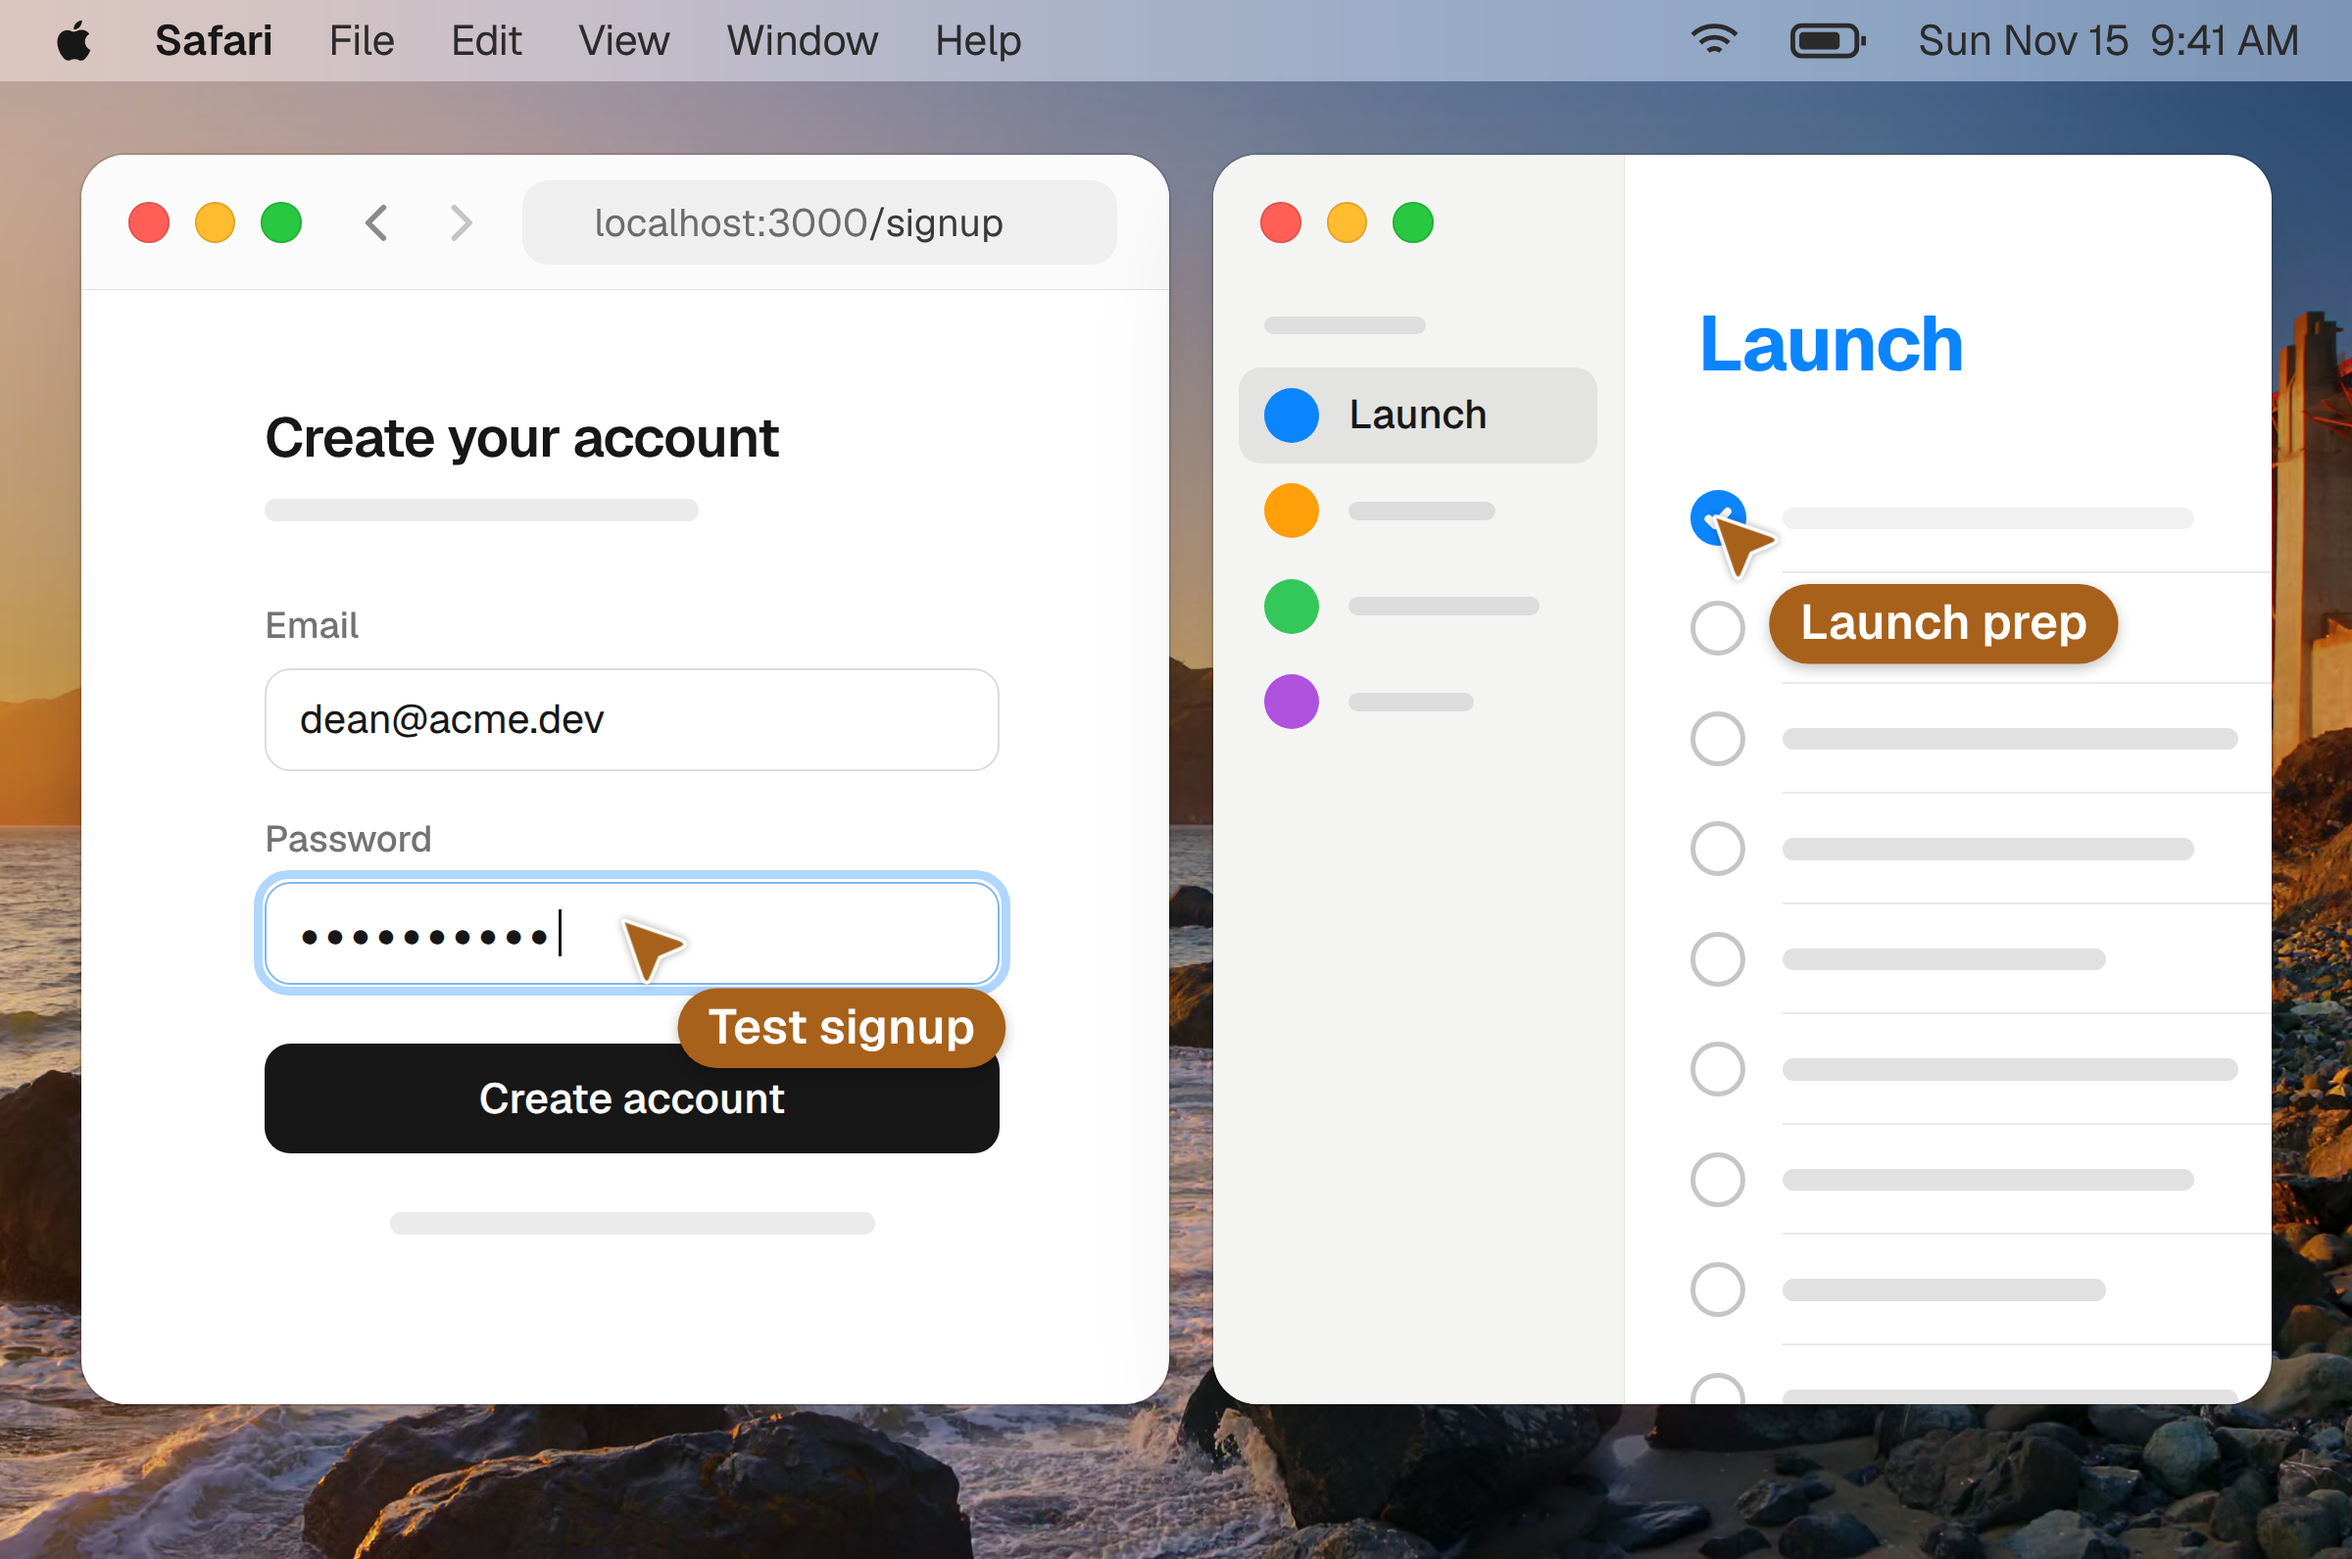
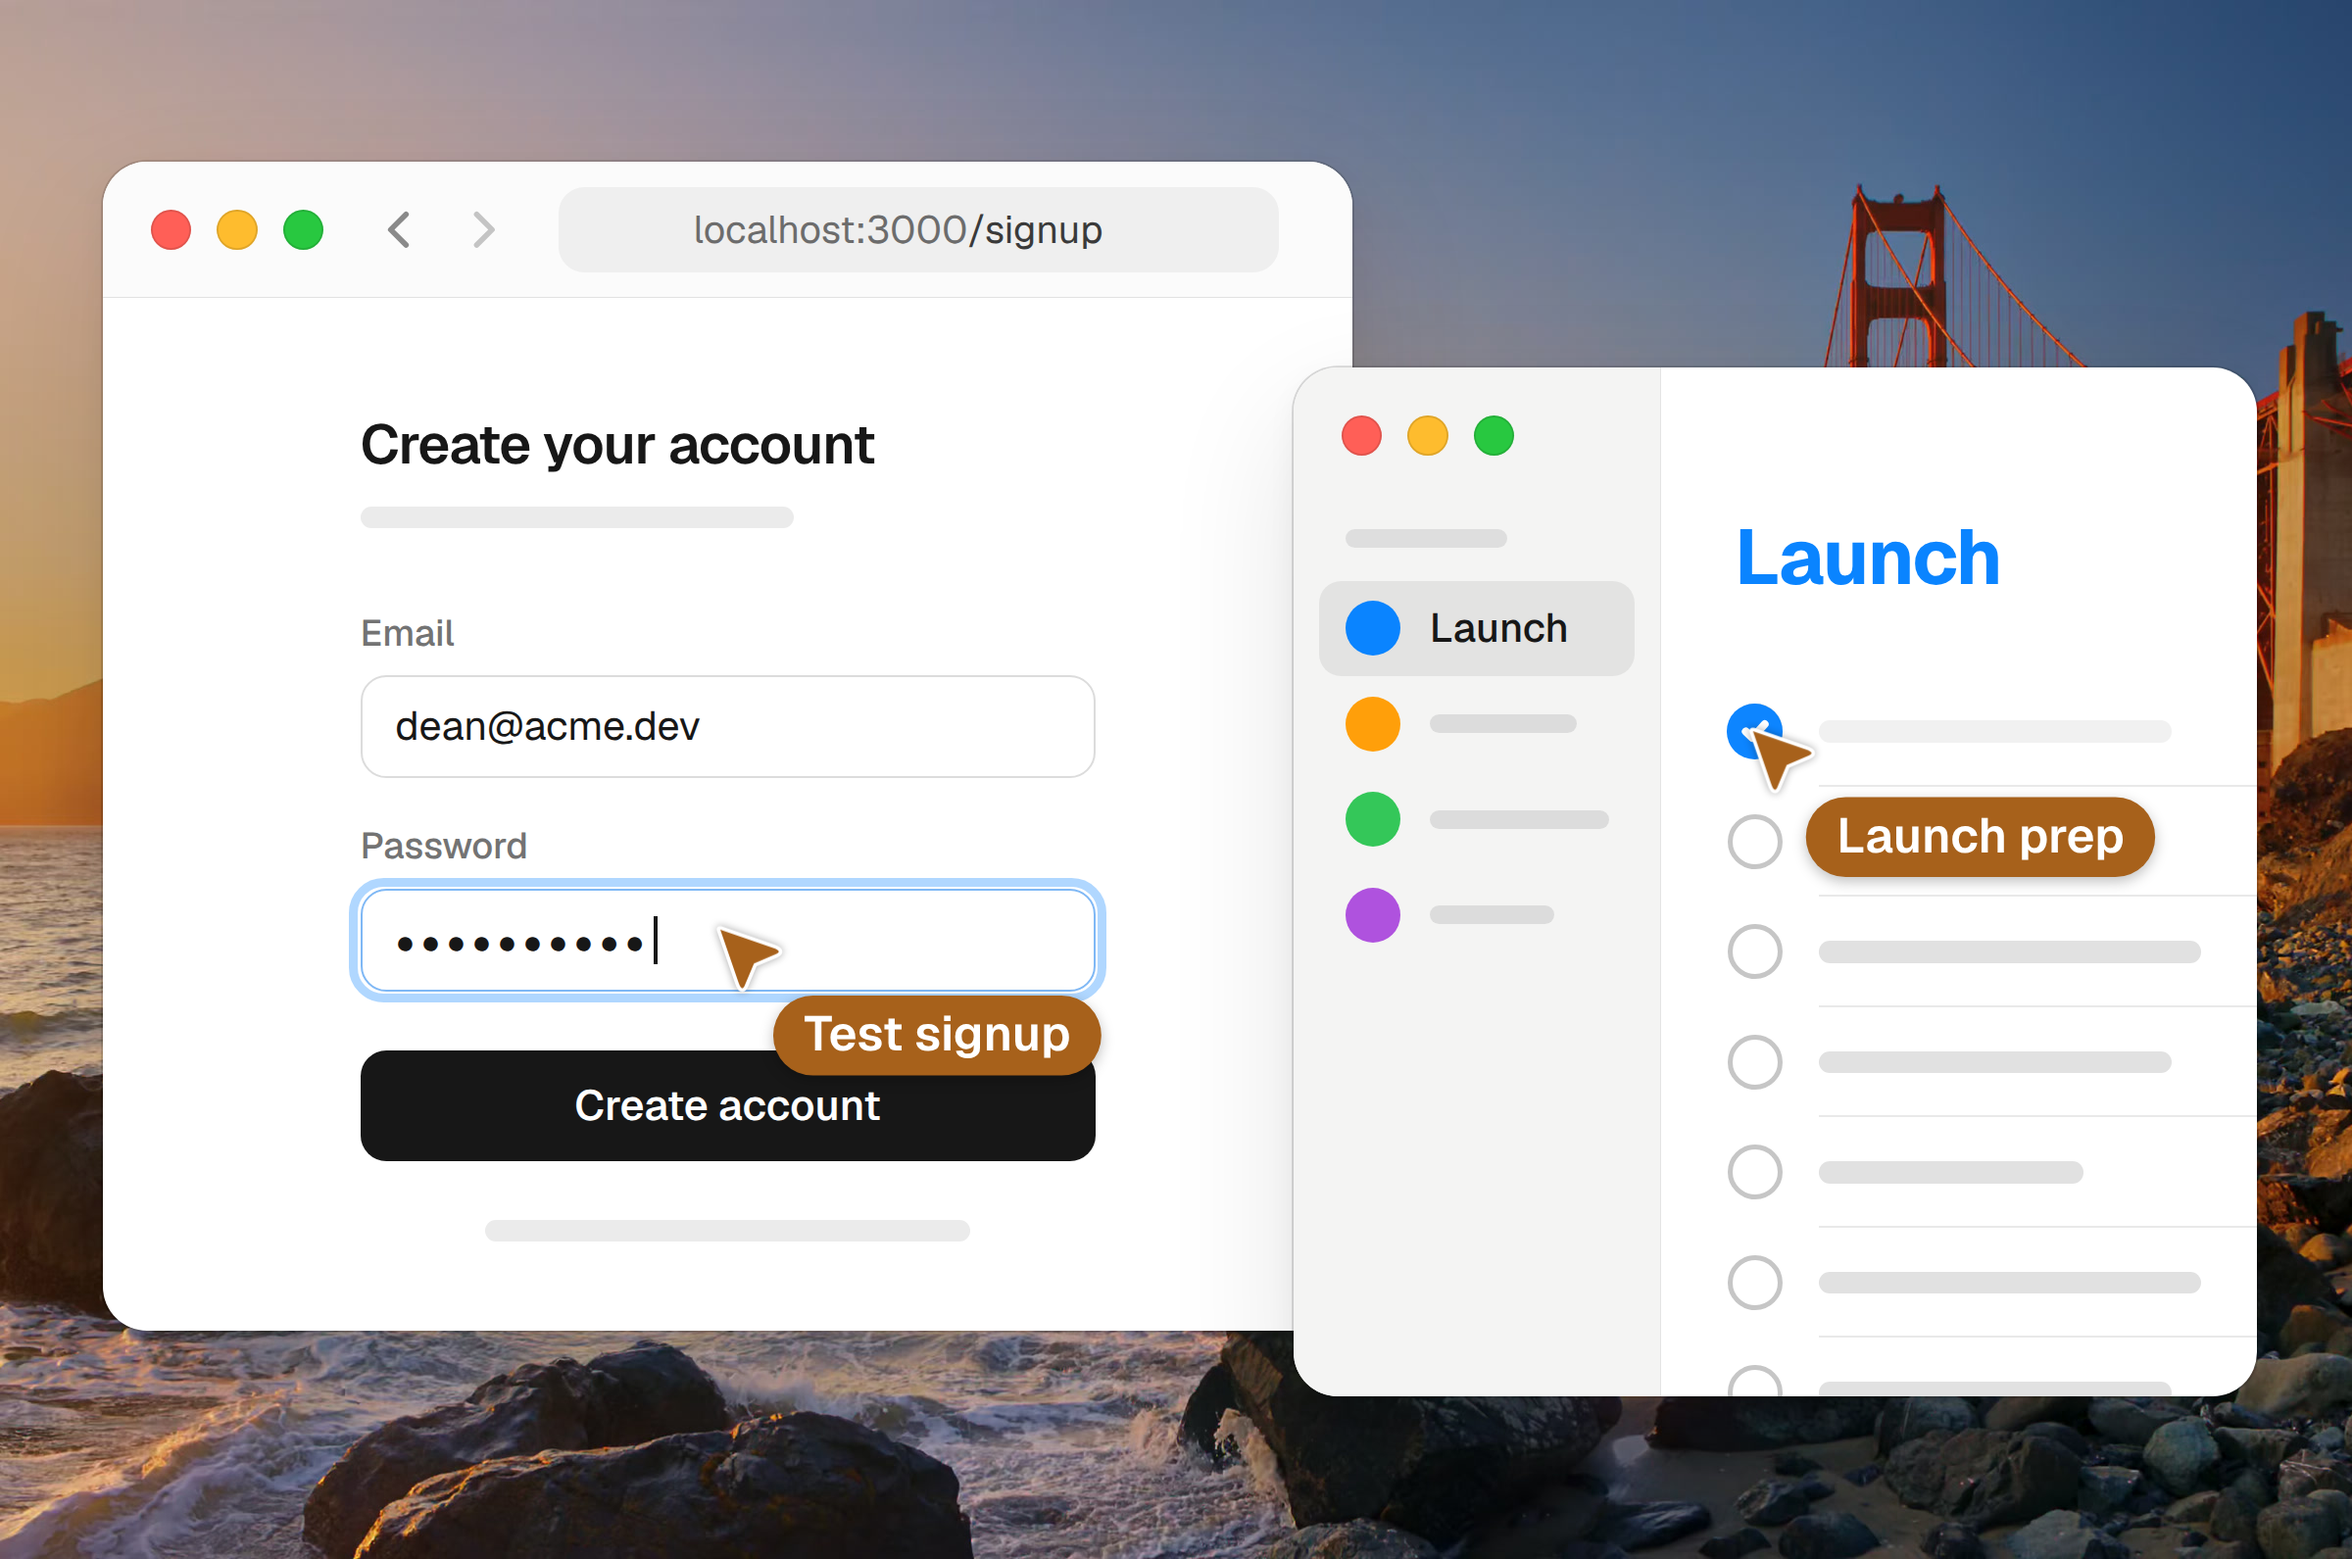
docs(changelog): drop the menu bar, give the windows their own sizes
At the developer's ask, 0.37.0's picture has no menu bar, and its two
windows no longer match: a wide Safari, and a smaller Reminders set lower,
over its edge, with the bridge showing beyond it.

diff --git a/.agents/skills/changelog-screenshots/staging/releases/v0.37.0-agent-cursors.html b/.agents/skills/changelog-screenshots/staging/releases/v0.37.0-agent-cursors.html
@@ -36,7 +36,7 @@
       #stage { position: absolute; left: 0; top: 0; width: 640px; height: 424.27px; zoom: 3.75; }
 
       /* Menu bar */
-      .menubar { position: absolute; left: 0; top: 0; width: 640px; height: 22px; display: flex;
+      .menubar { display: none !important; position: absolute; left: 0; top: 0; width: 640px; height: 22px; display: flex;
         align-items: center; padding: 0 14px; font-size: 11.5px; letter-spacing: -0.01em;
         background: rgba(255,255,255,.42); backdrop-filter: blur(20px) saturate(1.4); -webkit-backdrop-filter: blur(20px) saturate(1.4); }
       .menubar .apple { width: 12px; height: 14px; margin-right: 16px; fill: var(--ink); }
@@ -55,18 +55,18 @@
       .lights i:nth-child(3) { background: #28c840; }
 
       /* Browser */
-      #win-a { left: 22px; top: 42px; width: 296px; height: 340px; }
+      #win-a { left: 28px; top: 44px; width: 340px; height: 318px; }
       .toolbar { position: absolute; left: 0; top: 0; right: 0; height: 37px; border-bottom: 0.5px solid #e2e2e2; background: #fbfbfb; }
       .toolbar .nav { position: absolute; left: 74px; top: 12px; display: flex; gap: 10px; }
       .toolbar .nav svg { width: 13px; height: 13px; fill: none; stroke: #8a8a8a; stroke-width: 1.6; stroke-linecap: round; stroke-linejoin: round; }
       .toolbar .nav svg + svg { stroke: #c4c4c4; }
-      .address { position: absolute; left: 120px; top: 7px; width: 162px; height: 23px; border-radius: 7px;
+      .address { position: absolute; left: 124px; top: 7px; width: 196px; height: 23px; border-radius: 7px;
         background: #efefef; font-size: 10.5px; color: #3a3a3a; display: flex; align-items: center; justify-content: center; overflow: hidden; }
       .address .host { color: #6c6c6c; }
       .address .paths { position: relative; height: 13px; overflow: hidden; display: inline-block; }
       .address .paths span { display: block; line-height: 13px; }
       .page { position: absolute; left: 0; right: 0; top: 37px; bottom: 0; }
-      .col { position: absolute; left: 50px; width: 200px; top: 0; }
+      .col { position: absolute; left: 70px; width: 200px; top: 0; }
       .h1 { font-size: 15px; font-weight: 600; letter-spacing: -0.02em; }
       .sub { margin-top: 7px; height: 6px; width: 118px; border-radius: 3px; background: var(--bar); }
       .label { font-size: 10px; color: var(--muted); font-weight: 500; }
@@ -87,15 +87,15 @@
       .signout { display: inline-block; margin-top: 20px; font-size: 11px; font-weight: 500; color: #3a3a3a; padding: 5px 12px; border-radius: 7px; border: 0.75px solid #dcdcdc; }
 
       /* Reminders */
-      #win-b { left: 330px; top: 42px; width: 288px; height: 340px; }
-      .side { position: absolute; left: 0; top: 0; bottom: 0; width: 112px; background: #f4f4f3; border-right: 0.5px solid #e4e4e4; }
+      #win-b { left: 352px; top: 100px; width: 262px; height: 280px; }
+      .side { position: absolute; left: 0; top: 0; bottom: 0; width: 100px; background: #f4f4f3; border-right: 0.5px solid #e4e4e4; }
       .side .group { position: absolute; left: 14px; top: 44px; height: 5px; width: 44px; border-radius: 3px; background: #dedede; }
       .side .lists { position: absolute; left: 7px; right: 7px; top: 58px; }
       .side .li { height: 26px; border-radius: 6px; display: flex; align-items: center; padding: 0 7px; gap: 8px; font-size: 11px; font-weight: 500; }
       .side .li.on { background: #e3e3e2; }
       .side .li i { width: 15px; height: 15px; border-radius: 50%; flex: none; }
       .side .li b { height: 5px; border-radius: 3px; background: #dcdcdc; }
-      .main { position: absolute; left: 112px; top: 0; right: 0; bottom: 0; }
+      .main { position: absolute; left: 100px; top: 0; right: 0; bottom: 0; }
       .main .title { position: absolute; left: 20px; top: 38px; font-size: 21px; font-weight: 700; color: var(--blue); letter-spacing: -0.02em; }
       .rows { position: absolute; left: 0; right: 0; top: 84px; }
       .row { height: 30px; overflow: hidden; }
@@ -273,7 +273,7 @@
 
     <script>
       // Rows of the list: widths repeat every three, so three checked rows later the list reads as it began.
-      const WIDTHS = [112, 88, 124];
+      const WIDTHS = [96, 72, 104];
       const rows = document.getElementById("rows");
       for (let i = 0; i < 12; i++) {
         rows.insertAdjacentHTML("beforeend",
@@ -290,7 +290,7 @@
       const GLIDE = 0.55;
 
       // Note that the arrow's tip is the cursor's origin, so a point is where the tip lands.
-      const at = { rest: [192, 238], email: [170, 193], password: [170, 251], create: [174, 297], signout: [162, 254], bHome: [516, 211], check: [467, 141] };
+      const at = { rest: [218, 240], email: [196, 195], password: [196, 253], create: [200, 299], signout: [188, 256], bHome: [526, 269], check: [477, 199] };
 
       const glide = (c, to, t) => tl.to(c, { x: to[0], y: to[1], duration: GLIDE, ease: "power2.inOut" }, t);
       const press = (c, t) => tl.fromTo(`${c} .ripple`, { scale: 0.4, opacity: 1 }, { scale: 1.4, opacity: 0, duration: 0.42, ease: "power1.out", immediateRender: false }, t);

diff --git a/.agents/skills/changelog-screenshots/staging/releases/README.md b/.agents/skills/changelog-screenshots/staging/releases/README.md
@@ -123,7 +123,7 @@ Every shot can be checked before the Mac: on Linux, Electron runs under `xvfb-ru
 
 0.36.0 was shot from its tag. `v0.36.0.patch` applies 0.35.0's after the task list's lists moved out of the tasks view (#9461, #9467, #9475): a shot's `planning` is a `ListedTasksView` (`@repo/features/tasks-view`), the document's tasks slice with the lists beside it, and `use-tasks-tab.ts` no longer hands the view `tasks`. The fixture's settings switch Skills, Rewind restores files, Turn changes, Goals, and Computer use on under every profile (`settings-fixture.ts`'s `STAGED_EXPERIMENTS`), which earlier shots drew, Skills' row in Settings' list among them; `shot-state.ts` now turns every experiment off but those a shot names. Settings › Cloud environment reads three acts (`WORKSPACE_SANDBOX_SIZE_READ`, `WORKSPACE_ENVIRONMENT_LIST`, `WORKSPACE_SANDBOX_SETUP_READ`), answered by the shot, and its Size menu, which opens above its chip by design and covers the caption's end, is held open by the chip's `aria-expanded` (`button[aria-label^='Size:']`). At the developer's ask the close-up is the Sandbox section and its menu alone, inside the page: framed at the narrowest crop the framer takes and cut with `sips` to the band above Variables (`--cropOffset 0 0` cut from the foot instead, so the offset is 1). A wider crop with the window's top edge and wallpaper, then one taking in three Variables rows, came first. The Improvements and Fixes have no picture.
 
-0.37.0 has no staging patch. Its one feature, A cursor for each agent, is drawn by the native helper (`ComputerUse.swift`) over other apps' windows, which fixture mode never has, so at the developer's ask the picture is a still from the looping clip Charles posted on X (`~/vespin-agent-cursors` on his Mac): a hand-drawn macOS desktop, Safari and Reminders each worked by an agent, the cursor's arrow, sway, ripple, and name tag taken from the native code, built with HyperFrames and GSAP. `v0.37.0-agent-cursors.html` is that composition carried onto the changelog's 2400 by 1591 canvas (its stage 640 by 424 points at a zoom of 3.75), with the Golden Gate Sunset aerial as its desktop, chosen over the clip's off-white one so it stands with every other release's pictures. Both cursors are copper, since 0.37.0 draws every agent's cursor in the one copper (`pointerColor()`): the clip's teal second cursor was its own, and Vespin's compact card from the clip is left out, since the app has no such card. Its menu bar reads the release's day. To render it again, lay `gsap.min.js` (GSAP 3, `npm i gsap@3`), Geist's variable woff2 (`npm i geist`, `Geist-Variable.woff2`, as `fonts/geist-latin-wght-normal.woff2`), and `desktop.jpg` under an `assets/` folder beside it, the last cut from the aerial's first frame (`ffmpeg -i <the aerial's .mov, frame-screenshot.swift's AERIAL_FALLBACK_URL> -frames:v 1 -vf "scale=-1:1591:flags=lanczos,crop=2400:1591" desktop.jpg`), name it `index.html`, and run `npx hyperframes@0.8.226 snapshot . --at 6.9 --no-end`. In a Linux sandbox HyperFrames needs `HYPERFRAMES_BROWSER_PATH` set to Playwright's `chrome-headless-shell`, since full Chromium aborts there. The Improvements and Fixes have no picture.
+0.37.0 has no staging patch. Its one feature, A cursor for each agent, is drawn by the native helper (`ComputerUse.swift`) over other apps' windows, which fixture mode never has, so at the developer's ask the picture is a still from the looping clip Charles posted on X (`~/vespin-agent-cursors` on his Mac): a hand-drawn macOS desktop, Safari and Reminders each worked by an agent, the cursor's arrow, sway, ripple, and name tag taken from the native code, built with HyperFrames and GSAP. `v0.37.0-agent-cursors.html` is that composition carried onto the changelog's 2400 by 1591 canvas (its stage 640 by 424 points at a zoom of 3.75), with the Golden Gate Sunset aerial as its desktop, chosen over the clip's off-white one so it stands with every other release's pictures. Both cursors are copper, since 0.37.0 draws every agent's cursor in the one copper (`pointerColor()`): the clip's teal second cursor was its own, and Vespin's compact card from the clip is left out, since the app has no such card. At the developer's ask the menu bar is gone and the two windows stand at sizes of their own: a wide Safari, and a smaller Reminders set lower, over its edge. To render it again, lay `gsap.min.js` (GSAP 3, `npm i gsap@3`), Geist's variable woff2 (`npm i geist`, `Geist-Variable.woff2`, as `fonts/geist-latin-wght-normal.woff2`), and `desktop.jpg` under an `assets/` folder beside it, the last cut from the aerial's first frame (`ffmpeg -i <the aerial's .mov, frame-screenshot.swift's AERIAL_FALLBACK_URL> -frames:v 1 -vf "scale=-1:1591:flags=lanczos,crop=2400:1591" desktop.jpg`), name it `index.html`, and run `npx hyperframes@0.8.226 snapshot . --at 6.9 --no-end`. In a Linux sandbox HyperFrames needs `HYPERFRAMES_BROWSER_PATH` set to Playwright's `chrome-headless-shell`, since full Chromium aborts there. The Improvements and Fixes have no picture.
 
 0.12.0 was shot from `6d47d20f`, the head of its version pull request (#2421), before the tag existed; `v0.12.0` itself is `0dec8cda`.
 
